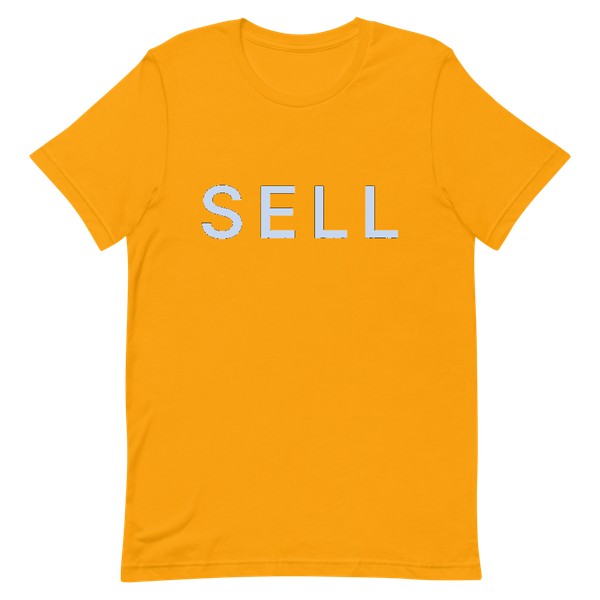
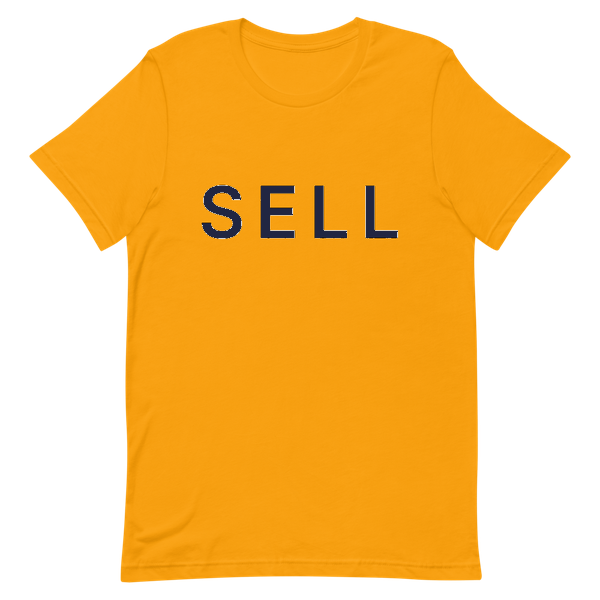
Adjust Los Angeles Chargers shirt colors

Changed region(s): [[0.33, 0.3, 0.57, 0.42], [0.6, 0.3, 0.66, 0.42]]

diff --git a/lib/teams.ts b/lib/teams.ts
@@ -157,7 +157,7 @@ const ROWS: Row[] = [
   ["nfl-denver", "afc-west", "Denver", "Broncos", "DENVER", "Orange", "Orange"],
   ["nfl-kansas-city", "afc-west", "Kansas City", "Chiefs", "KANSAS CITY", "Red", "Red"],
   ["nfl-las-vegas", "afc-west", "Las Vegas", "Raiders", "LAS VEGAS", "Black", "Black"],
-  ["nfl-los-angeles-light-blue", "afc-west", "Los Angeles", "Chargers Bolts", "LOS ANGELES", "Baby Blue", "Carolina Blue"],
+  ["nfl-los-angeles-light-blue", "afc-west", "Los Angeles", "Chargers Bolts", "LOS ANGELES", "Heather Columbia Blue", "Carolina Blue"],
   // NFC East
   ["nfl-dallas", "nfc-east", "Dallas", "Cowboys", "DALLAS", "Navy", "Navy"],
   ["nfl-new-york-blue", "nfc-east", "New York", "Giants", "NEW YORK", "True Royal", "Royal"],

diff --git a/lib/products.ts b/lib/products.ts
@@ -86,8 +86,8 @@ const TEE_PRINT_OVERRIDES: Record<string, { name: string; hex: string }> = {
   "nfl-denver-alternate-one": { name: "orange", hex: "#FF6F00" },
   "nfl-kansas-city": { name: "gold", hex: "#C5A253" },
   "nfl-las-vegas-alternate-one": { name: "black", hex: "#000000" },
-  "nfl-los-angeles-light-blue": { name: "dark gold", hex: "#8C6B1F" },
-  "nfl-los-angeles-light-blue-alternate-one": { name: "powder blue", hex: "#C7D7EF" },
+  "nfl-los-angeles-light-blue": { name: "gold", hex: "#C5A253" },
+  "nfl-los-angeles-light-blue-alternate-one": { name: "navy blue", hex: "#212642" },
 };
 
 export function printColorName(team: Team, style: Style): string {

diff --git a/lib/art.ts b/lib/art.ts
@@ -1,5 +1,5 @@
 // Bump when the shirt artwork or photos change: Printful caches print files by
 // URL and next/image caches optimized photos by URL, so a new number makes
 // both fetch fresh copies.
-export const ART_VERSION = 31;
+export const ART_VERSION = 32;
 
